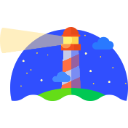
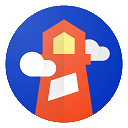
LHCI Major Updates (#9)
* Fix Task Visible Condition

* Update task.json

* Populate Build Context

* Fix typos

* Updates

* Updates

* Npm install

* Fix

* Fix

* fix

* Fix

* Add DEbug

* Fix

* Another fix

* Health Check and Build Context Check

* Fix Environment Variable

* Install packages

* Bug Fix

* Puppeteer

* Build Source Branch

* Sudo env variable

* Updates

* Final Push

* Update to Docs

* Updates

* Transparent Background

diff --git a/lighthouse-ci/lighthouse-ci-build-task/src/lighthouse-ci.ts b/lighthouse-ci/lighthouse-ci-build-task/src/lighthouse-ci.ts
@@ -4,50 +4,107 @@ import * as path from 'path';
 import url = require('url');
 import * as fs from "fs";
 import * as os from "os";
+import { throws } from 'assert';
+import { LightHouseCIBuildContext } from './lighthouse-ci-build-context';
+var uuidV4 = require('uuid/v4');
 
-async function run() {
-    try {
-        
-        // Read Inputs
-        let command: string = tasklib.getInput('command');
-        let configFilePath: string = tasklib.filePathSupplied('configFilePath') ?
+export class lighthouseCI {
+
+    private command: string;
+    private configFilePath: string;
+    private parameters: string;
+    private targetArtifact: string;
+
+    constructor() {
+
+        this.command = tasklib.getInput('command');
+
+        this.configFilePath = tasklib.filePathSupplied('configFilePath') ?
             `--config ${tasklib.getPathInput('configFilePath', false, true)}` : "";
-        let parameters: string = tasklib.getInput('parameters', false) || "";
-        let targetArtifact: string = tasklib.getInput('')
-        
-        // LHCI CWD Prep
-        let LHCI_DIR = tasklib.getTaskVariable('LHCI_DIR');
-        if(!LHCI_DIR)
-        {
-            LHCI_DIR = tasklib.cwd(); // Directory inside which lighthouse is executed.
-            if (configFilePath) {
-                // If path to Lighthouse CI config is provided, change cwd to the folder containing the file.
-                // All path to related files, Lighthouse & Puppeteer Config is there.
-                LHCI_DIR=path.dirname(tasklib.getPathInput('configFilePath'));
+
+        this.parameters = tasklib.getInput('parameters', false) || "";
+
+        this.targetArtifact = tasklib.filePathSupplied('targetArtifactPath') ?
+            `${tasklib.getPathInput('targetArtifactPath', false, true)}` : "";
+    }
+
+    public async run() {
+
+        try {
+
+            if (await this.installLightHouse() && await this.setBuildContext()) {
+
+                let lighthouse = tasklib.tool('lhci');
+                lighthouse
+                    .line(`${this.command} ${this.configFilePath} ${this.parameters}`)
+                    .exec(<toolrunner.IExecOptions>{ cwd: path.dirname(tasklib.getPathInput('configFilePath')) })
+                    .then(() => {
+                    },
+                        (error) => {
+                            tasklib.setResult(tasklib.TaskResult.Failed, error);
+                        }
+                    )
             }
         }
-        tasklib.cd(LHCI_DIR);
-
-        // Get settings
-        
-
-
-        // Execute Lighthouse
-        tasklib.setTaskVariable("LHCI_DIR",LHCI_DIR, false);
-        let lighthouse = tasklib.tool('lhci');
-        lighthouse
-            .line(`${command} ${configFilePath} ${parameters}`)
-            .exec()
-            .then(() => {
-            },
-                (error) => {
-                    tasklib.setResult(tasklib.TaskResult.Failed, error);
-                }
-            )
+        catch (error) {
+            tasklib.setResult(tasklib.TaskResult.Failed, error.message);
+        }
     }
-    catch (error) {
-        tasklib.setResult(tasklib.TaskResult.Failed, error.message);
+
+    private async setBuildContext(): Promise<boolean> {
+
+        if (!tasklib.getVariable('LHCI_BUILD_CONTEXT__CURRENT_BRANCH')) {
+
+            tasklib.debug('--------------------------- Setting Up Build Context for LightHouse CI--------------------------------')
+
+            let LHCIbuildContext = new LightHouseCIBuildContext(this.targetArtifact);
+            LHCIbuildContext.setBuildContext();
+
+            tasklib.debug('---------------------------Build Context Successfully Set-Up----------------------------- ');
+        }
+        else {
+            tasklib.debug('------------ Build Context already inferred from a previous LightHouse CI task ---------------')
+        }
+        return true;
+    }
+
+    private async installLightHouse(): Promise<boolean> {
+        let lhci:string = tasklib.which('lhci', false);
+        if (!lhci) {
+
+            tasklib.debug('-------------------------Lighthouse CI not found. Installing NPM Package --------------------------------')
+
+            let tempDirectory = tasklib.getVariable('agent.tempDirectory');
+            tasklib.checkPath(tempDirectory, `${tempDirectory} (agent.tempDirectory)`);
+            let filePath = path.join(tempDirectory, uuidV4() + '.sh');
+
+            if (os.platform() === "win32") {
+                fs.writeFileSync(filePath, 'export PUPPETEER_SKIP_CHROMIUM_DOWNLOAD=true && npm install -g @lhci/cli puppeteer', { encoding: 'utf8' });
+            }
+            else {
+                fs.writeFileSync(filePath, 'sudo PUPPETEER_SKIP_CHROMIUM_DOWNLOAD=true npm install -g @lhci/cli puppeteer', { encoding: 'utf8' });
+            }
+
+            var lighthouseInstallResult = await tasklib.tool(tasklib.which('bash', true))
+                .arg('--noprofile')
+                .arg(`--norc`)
+                .arg(filePath)
+                .exec();
+
+            if (lighthouseInstallResult !== 0) {
+                throw 'Failed to install Lighthouse CI and Puppeteer.';
+            }
+            else {
+                tasklib.debug('------------------------------------ Successfully Installed Lighthouse CI and Puppeteer -----------------------------');
+                return true;
+            }
+        }
+        else {
+            tasklib.debug(`LightHouse CI installation found at ${lhci}.`);
+        }
+        return true;
     }
 }
 
-run();
+var exe = new lighthouseCI();
+exe.run().catch((reason) => tasklib.setResult(tasklib.TaskResult.Failed, reason));

diff --git a/lighthouse-ci/lighthouse-ci-build-task/src/lighthouse-ci-build-context.ts b/lighthouse-ci/lighthouse-ci-build-task/src/lighthouse-ci-build-context.ts
@@ -1,0 +1,71 @@
+import tasklib = require('azure-pipelines-task-lib/task');
+import toolrunner = require('azure-pipelines-task-lib/toolrunner');
+import * as path from 'path';
+import url = require('url');
+import * as fs from "fs";
+import * as os from "os";
+import { throws } from 'assert';
+
+export class LightHouseCIBuildContext {
+
+    private LHCI_BUILD_CONTEXT__GITHUB_REPO_SLUG: string = '';
+    private LHCI_BUILD_CONTEXT__CURRENT_HASH: string = '';
+    private LHCI_BUILD_CONTEXT__COMMIT_TIME: string = '';
+    private LHCI_BUILD_CONTEXT__COMMIT_MESSAGE: string = '';
+    private LHCI_BUILD_CONTEXT__CURRENT_BRANCH: string = '';
+    private LHCI_BUILD_CONTEXT__AUTHOR: string = '';
+    private LHCI_BUILD_CONTEXT__EXTERNAL_BUILD_URL: string = '';
+
+    constructor(targetArtifactPath: string) {
+
+        if (tasklib.getVariable('RELEASE_RELEASEID')) {
+
+            tasklib.debug('Running Inside a Release Pipeline. Will infer Build Context from Artifact');
+            this.inferBuildContextFromRelease(targetArtifactPath);
+        }
+        else {
+            tasklib.debug('Running Inside a Build Pipeline. Will infer Build Context from Git Repo');
+            this.inferBuildContextFromBuild();
+        }
+    }
+
+    private  inferBuildContextFromBuild() {
+        this.LHCI_BUILD_CONTEXT__GITHUB_REPO_SLUG = tasklib.getVariable('BUILD_REPOSITORY_NAME');
+        this.LHCI_BUILD_CONTEXT__EXTERNAL_BUILD_URL = `${tasklib.getVariable('SYSTEM_COLLECTIONURI')}${tasklib.getVariable('SYSTEM_TEAMPROJECT')}/_build/results?buildId=${tasklib.getVariable('BUILD_BUILDID')}`;
+        this.LHCI_BUILD_CONTEXT__CURRENT_BRANCH = tasklib.getVariable('BUILD_SOURCEBRANCHNAME');
+        // other variables are inferred from git by LHCI.
+    }
+
+    private inferBuildContextFromRelease(targetArtifactPath: string) {
+        let artifactAlias: string;
+
+        if (!targetArtifactPath) {
+            artifactAlias = tasklib.getVariable('RELEASE_PRIMARYARTIFACTSOURCEALIAS').toUpperCase();
+
+            tasklib.debug(`Artifact path not provided. Using primary artifact ${artifactAlias} to populate build context.`);
+        }
+        else {
+            artifactAlias = path.basename(targetArtifactPath).toUpperCase();
+            tasklib.debug(`Using artifact ${artifactAlias} to populate build context.`);
+
+        }
+
+        this.LHCI_BUILD_CONTEXT__GITHUB_REPO_SLUG = tasklib.getVariable(`RELEASE_ARTIFACTS_${artifactAlias}_REPOSITORY_NAME`);
+        this.LHCI_BUILD_CONTEXT__CURRENT_HASH = tasklib.getVariable(`RELEASE_ARTIFACTS_${artifactAlias}_SOURCEVERSION`);
+        this.LHCI_BUILD_CONTEXT__COMMIT_TIME = tasklib.getVariable(`RELEASE_DEPLOYMENT_STARTTIME`);
+        this.LHCI_BUILD_CONTEXT__COMMIT_MESSAGE = `${tasklib.getVariable('RELEASE_DEFINITIONNAME')} - ${tasklib.getVariable('RELEASE_RELEASENAME')} - ${tasklib.getVariable('RELEASE_ENVIRONMENTNAME')}`;
+        this.LHCI_BUILD_CONTEXT__CURRENT_BRANCH = tasklib.getVariable(`RELEASE_ARTIFACTS_${artifactAlias}_SOURCEBRANCH`);
+        this.LHCI_BUILD_CONTEXT__AUTHOR = `${tasklib.getVariable('RELEASE_RELEASENAME')}`;
+        this.LHCI_BUILD_CONTEXT__EXTERNAL_BUILD_URL = tasklib.getVariable('RELEASE_RELEASEWEBURL');
+    }
+
+    public setBuildContext()
+    {        
+        for (var key of Object.keys(this)) {
+
+            if (key.startsWith('LHCI_BUILD_CONTEXT') && this[key]) {
+                tasklib.setVariable(key, this[key], false);
+            }
+        }
+    }
+}

diff --git a/lighthouse-ci/README.md b/lighthouse-ci/README.md
@@ -2,15 +2,37 @@
 
 [Lighthouse CI](https://github.com/GoogleChrome/lighthouse-ci) is a set of commands that make continuously running, asserting, saving, and retrieving [Lighthouse](https://github.com/GoogleChrome/lighthouse) results as easy as possible.
 
-- TODO : Link to Getting Started with lighthouse blog post.
-
-This extension runs Lighthouse CI scan as part of your Azure Pipelines.
+This extension runs Lighthouse CI as part of your Azure Pipelines.
 
 ## Getting Started with Lighthouse CI for Azure Devops
 
-Once the extension is installed, you will see a task that you can use in build / release steps. Below is a screenshot of a sample build pipeline.
+Once the extension is installed, you will see Lighthouse CI task that you can use in build / release pipelines. Below is a screenshot of a sample build pipeline.
+
+![Lighthouse CI Sample Pipeline](https://raw.githubusercontent.com/GuruCharan94/azure-devops-extensions/master/lighthouse-ci/images/demo-pipeline.png)
+
+The `command`, `Configuration File` and `CLI options` are fairly straight forward configurations and map directly to options you would pass to LHCI in the command line.
+
+The input to `Artifact to Infer Build Context` is used by the task to override [Lighthouse CI's build context](https://github.com/GoogleChrome/lighthouse-ci/blob/master/docs/cli.md#build-context).
+
+- When running the tasks **inside a release pipeline**, inferring context get slightly tricky. A release can have multiple artifacts of different types and so you have the option of choosing which artifact you would like to infer build context from. Leaving this blank will lead to the primary artifact of the pipeline being chosen as the one from which to infer build context from. If you want to point to a different artifact for this purpose, specify the **path to the root folder** of the chosen artifact.
+
+- When running the tasks inside a build pipeline, the context is inferred from the Git Repo. **Any value passed to this input is ignored inside build pipelines.**
+
+The extension overrides the build context using predefined variables from Azure Devops as shown in the table below.
+
+Take a look at pre defined [Build Variables](https://docs.microsoft.com/en-us/azure/devops/pipelines/build/variables?view=azure-devops&tabs=yaml) and [Release Variables](https://docs.microsoft.com/en-us/azure/devops/pipelines/release/variables?view=azure-devops&tabs=batch)
+
+| Name                                     | Build Pipeline                                  | Release Pipeline
+| ---------------------------------------- | ----------------------------------------------- |-----------------------------------
+| `LHCI_BUILD_CONTEXT__GITHUB_REPO_SLUG`   | `BUILD_REPOSITORY_NAME`                         | `RELEASE_ARTIFACTS_${artifactAlias}_REPOSITORY_NAME`
+| `LHCI_BUILD_CONTEXT__CURRENT_HASH`       | Inferred from Git                               | `RELEASE_ARTIFACTS_${artifactAlias}_SOURCEVERSION`
+| `LHCI_BUILD_CONTEXT__COMMIT_TIME`        | Inferred from Git                               | `RELEASE_DEPLOYMENT_STARTTIME`
+| `LHCI_BUILD_CONTEXT__CURRENT_BRANCH`     | `BUILD_SOURCEBRANCHNAME`                        | `RELEASE_ARTIFACTS_${artifactAlias}_SOURCEBRANCH`
+| `LHCI_BUILD_CONTEXT__COMMIT_MESSAGE`     | Inferred from Git                               | `RELEASE_DEFINITIONNAME` - `RELEASE_RELEASENAME` - `RELEASE_ENVIRONMENTNAME`
+| `LHCI_BUILD_CONTEXT__AUTHOR`             | Inferred from Git                               | `RELEASE_RELEASENAME`
+| `LHCI_BUILD_CONTEXT__EXTERNAL_BUILD_URL` | Link to the Executing Build `BUILD_BUILDID`     | `RELEASE_RELEASEWEBURL`
 
 ## Contact
 
-- For issues, bugs, and feature requests, please [raise an issue](https://github.com/GuruCharan94/azure-devops-extensions/issues/new).
-- You should also join us in the [Azure DevOps Slack Channel](http://www.azuredevops.club/).
+- For issues, bugs, and feature requests, please [raise an issue](https://github.com/GuruCharan94/azure-devops-extensions/issues/new)
+- You should also join us in the [Azure DevOps Slack Channel](http://www.azuredevops.club/)
